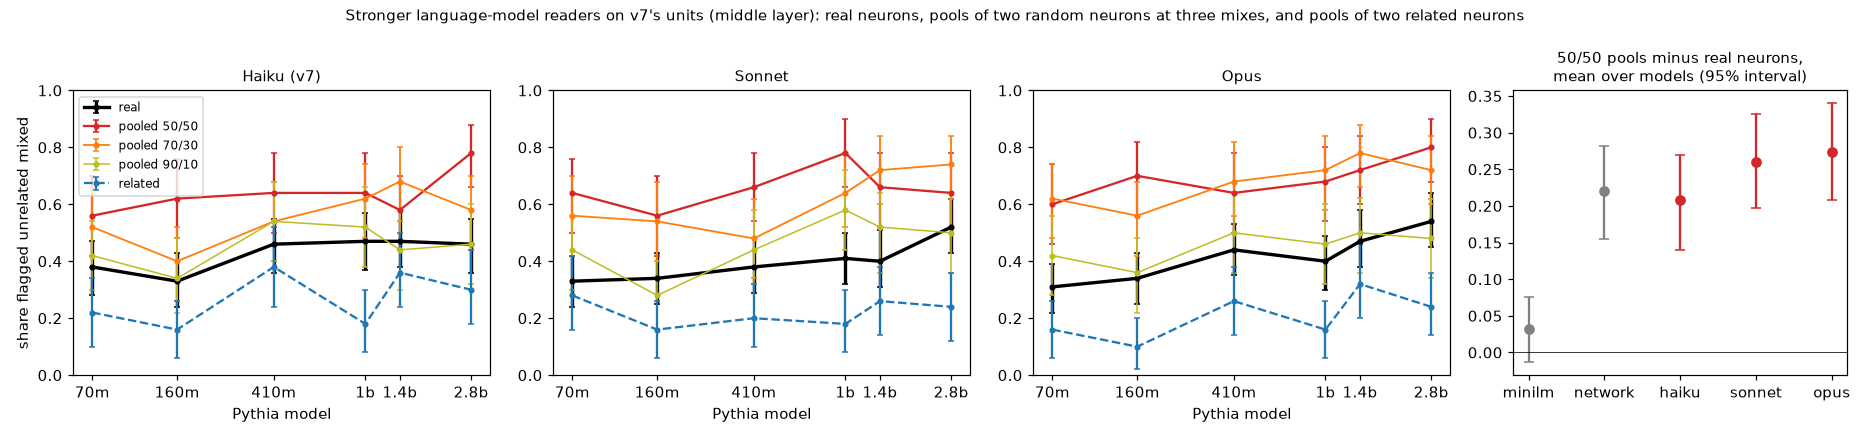
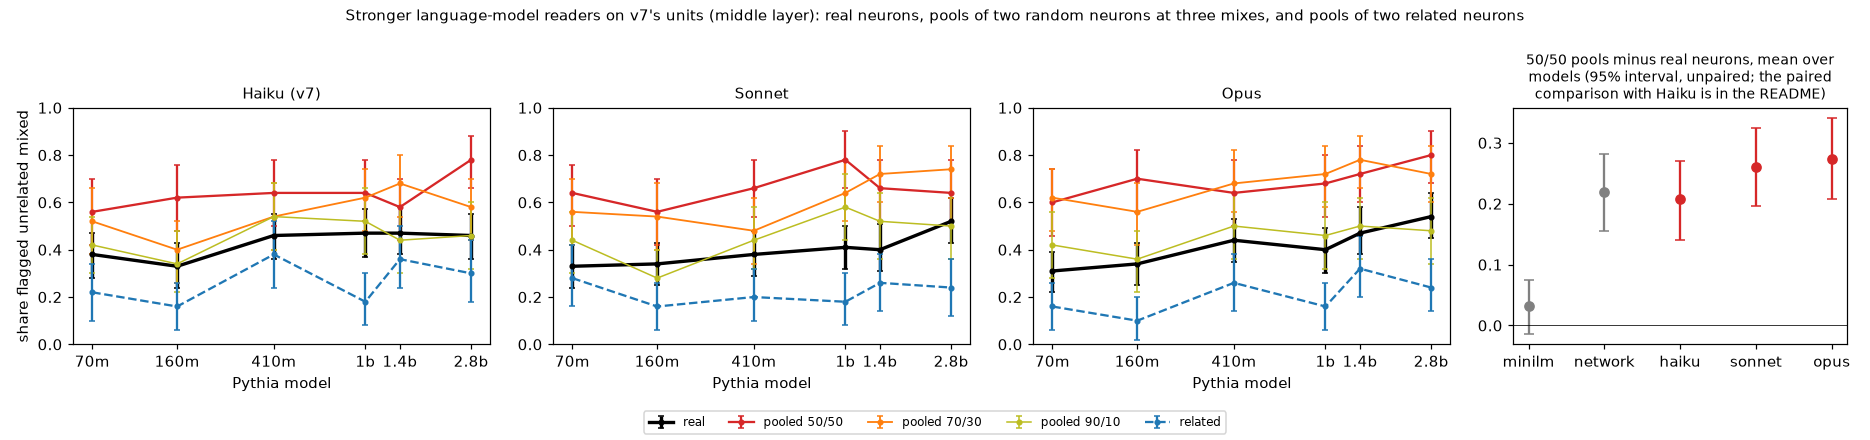
Record v10 post-review checks

diff --git a/results/v10_models.md b/results/v10_models.md
@@ -42,6 +42,8 @@ opus labels on real neurons: A 38, B 31, C 31
 
 ### 50/50 pools Haiku flags and Opus calls one job
 
+None.
+
 ### Real neurons where Opus and Haiku disagree
 
 **70m:real::38**, MLP neuron(s) 54 (network True; labels: haiku C, sonnet C, opus B)
@@ -104,6 +106,8 @@ opus labels on real neurons: A 35, B 31, C 34
 
 ### 50/50 pools Haiku flags and Opus calls one job
 
+None.
+
 ### Real neurons where Opus and Haiku disagree
 
 **160m:real::62**, MLP neuron(s) 92 (network False; labels: haiku A, sonnet B, opus C)
@@ -165,6 +169,8 @@ opus labels on real neurons: A 33, B 23, C 44
 - `commons.math.util.MathUtilsTest)⏎testMulAndCheck(org.apache.commons.math[[.]]util.MathUtils`
 
 ### 50/50 pools Haiku flags and Opus calls one job
+
+None.
 
 ### Real neurons where Opus and Haiku disagree
 
